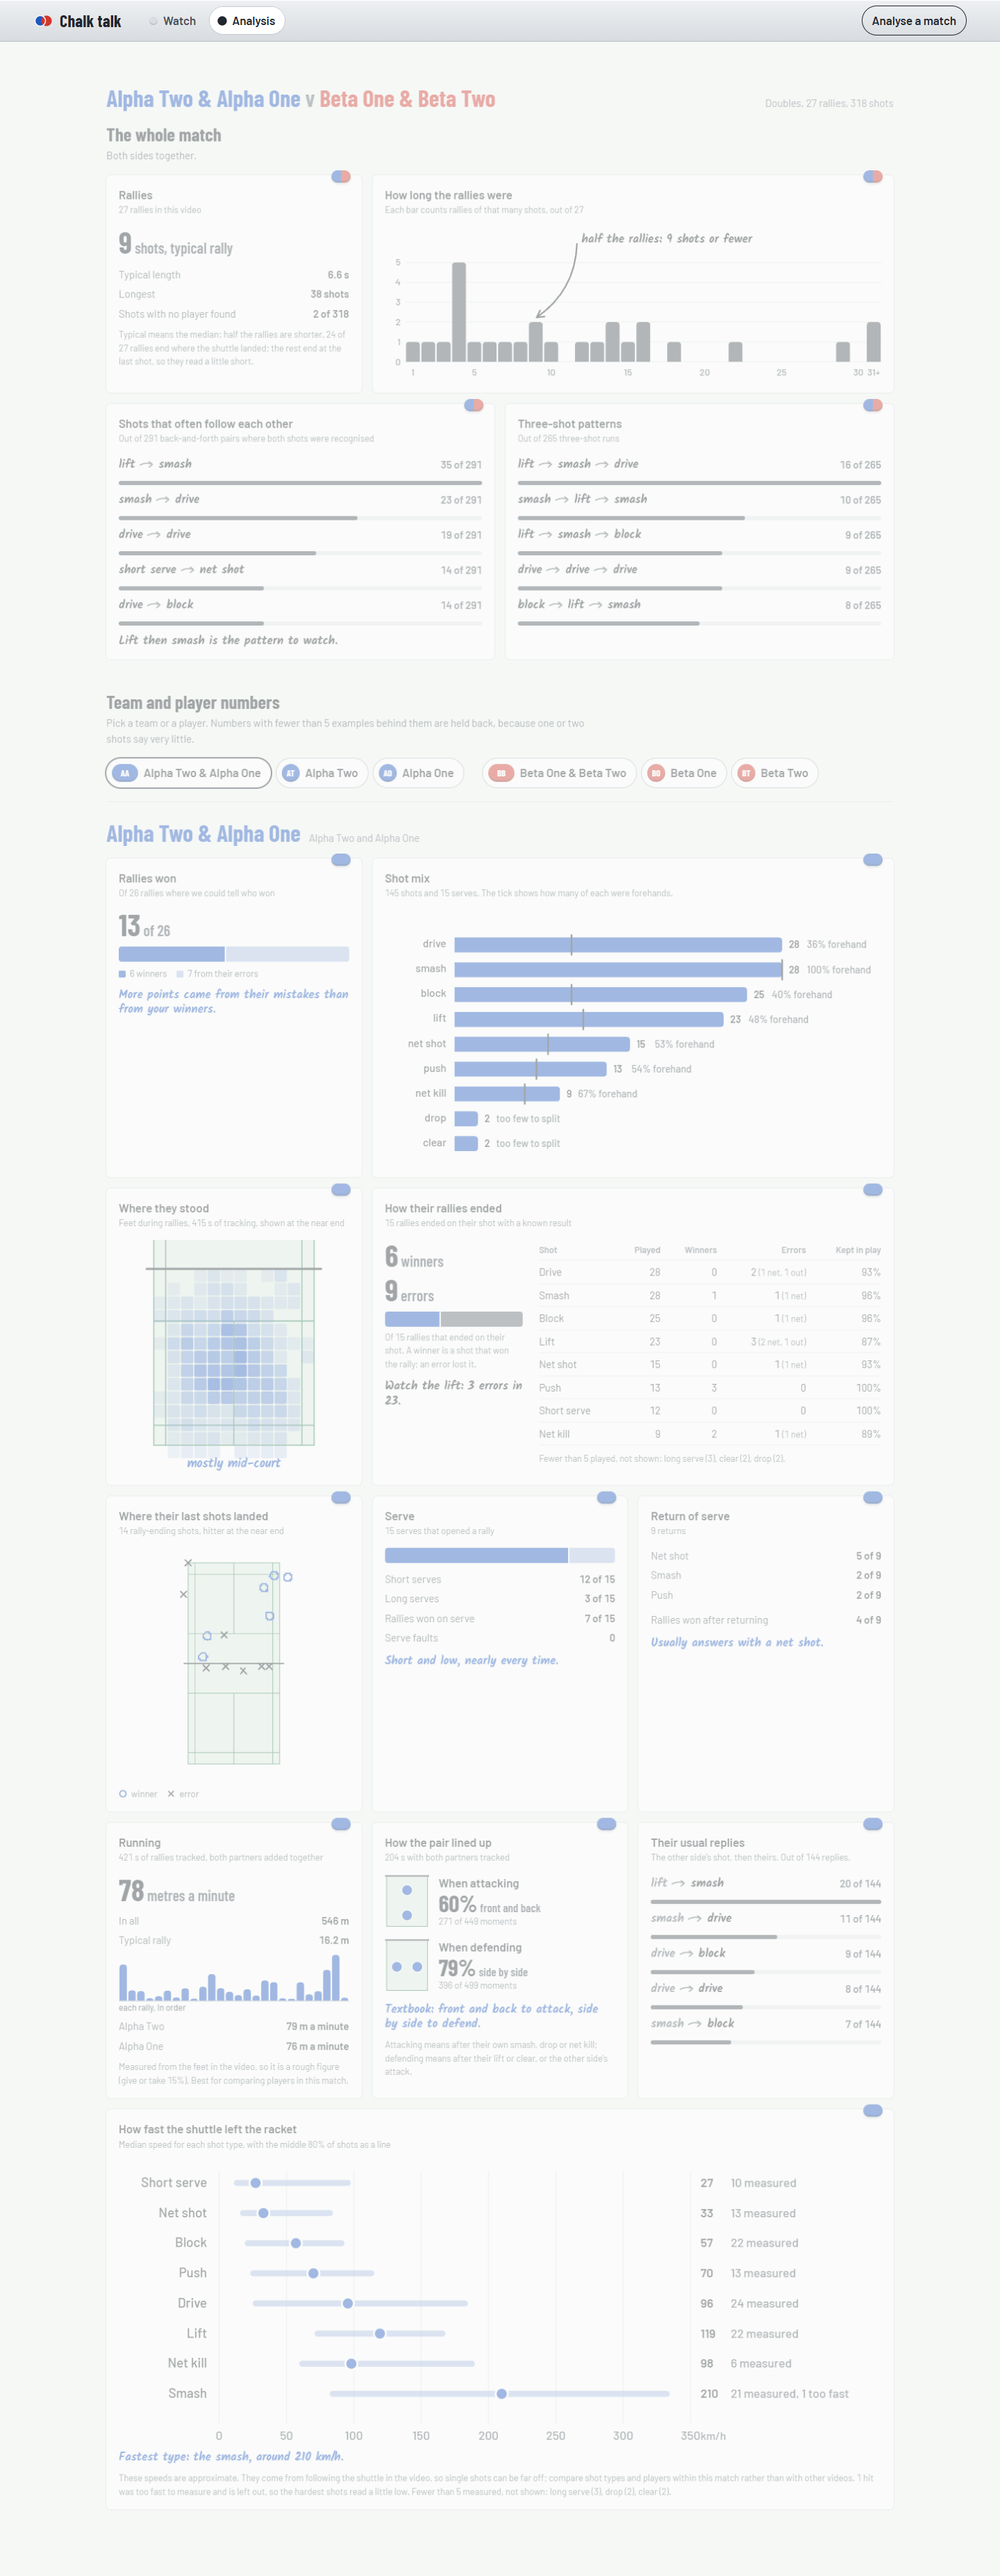
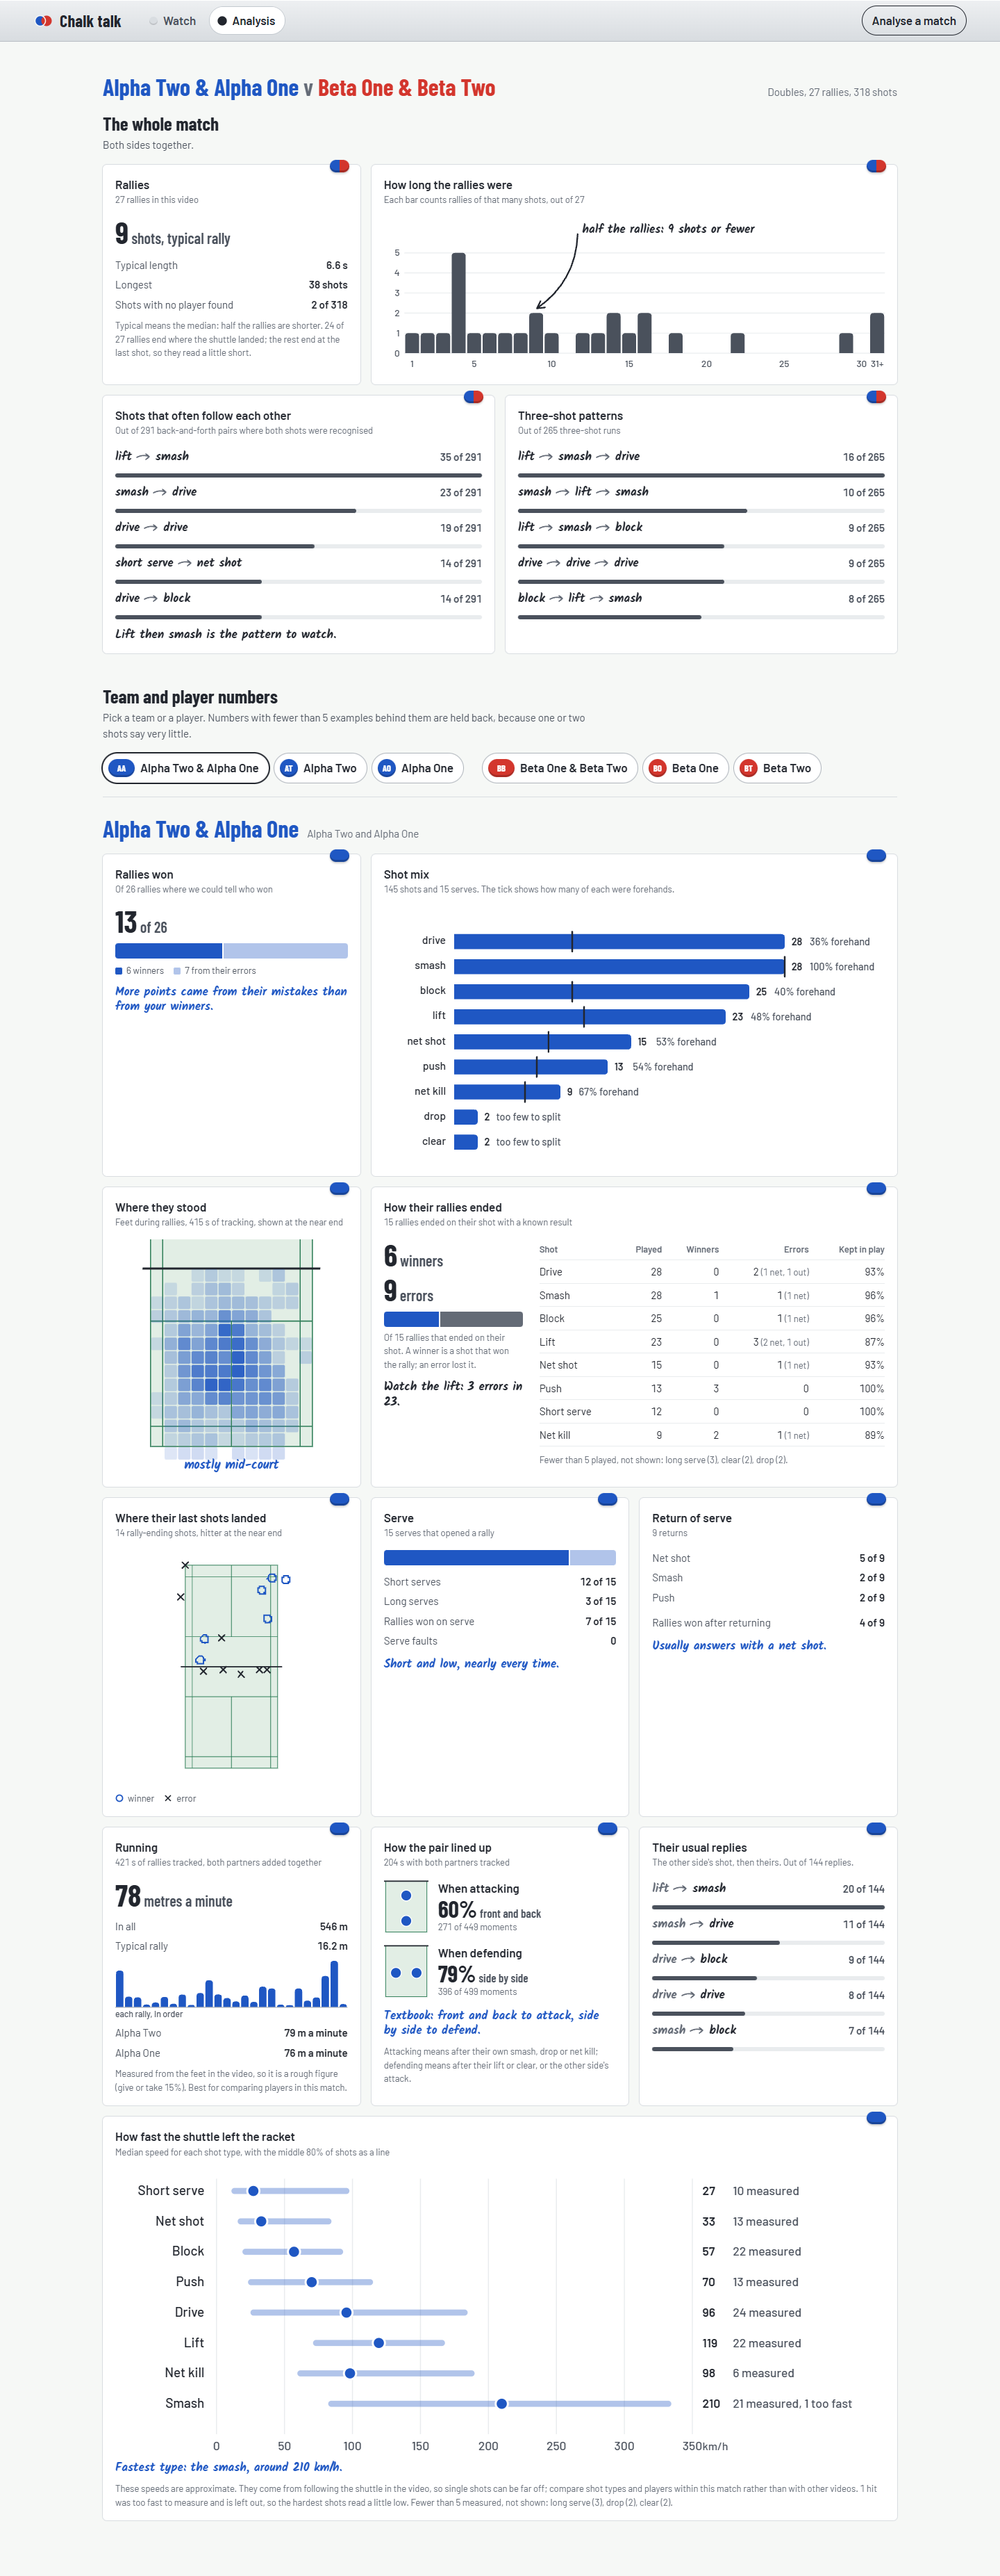
Chalk talk: keep analysis at full contrast and the hero board whole
The page entrance faded opacity from 0, so a capture (or a re-render)
mid-animation left every card pale; it now only scales. The analysis
re-renders only when the phone breakpoint really changes. The hero board
is aimed at its centre and moved right with a view offset sized to the
viewport, so it stays whole beside the headline from 1024 to 1920 px.

diff --git a/design/prototypes/c-chalk-talk/js/board3d.js b/design/prototypes/c-chalk-talk/js/board3d.js
@@ -547,11 +547,12 @@ export async function createBoard(host, { analysis, names, reduced }) {
       tgtHero = new THREE.Vector3(0.6, 0, -6.5);
     } else {
       // keep the board clear of the headline column on any landscape shape
-      const k = Math.max(0, 1.75 - aspect);
-      const d = 23 * (1 + k * 0.75);
-      const shift = -5.9 - k * 8;
-      eyeHero = new THREE.Vector3(shift - 0.6 + px * 2.2, d * 0.58 + py * 1.2, d * 0.8);
-      tgtHero = new THREE.Vector3(shift, -0.6, 1.4);
+      // aim at the board and slide the picture right with a view offset, so the
+      // whole board sits in the right-hand column at any landscape shape
+      const f = Math.max(1.1, 1.25 + (1.6 - aspect) * 0.4);
+      const d = 26 * Math.max(1, 1.9 / aspect) * f;
+      eyeHero = new THREE.Vector3(-1.6 + px * 2.2, d * 0.58 + py * 1.2, d * 0.8);
+      tgtHero = new THREE.Vector3(0.6, -0.6, 1.4);
     }
     eyeA.lerpVectors(eyeHero, eyeFlat, p);
     tgtA.lerpVectors(tgtHero, tgtFlat, p);
@@ -564,6 +565,11 @@ export async function createBoard(host, { analysis, names, reduced }) {
     // a gentle roll in the hero pose so the board reads as lying on a bench
     if (p < 1) camera.rotateZ(0.06 * (1 - p) * (portrait ? 0 : 1));
     // tags fade slightly when the board lies flat (more room for strokes)
+    const w = host.clientWidth || 1;
+    const h = host.clientHeight || 1;
+    const off = portrait ? 0 : Math.max(0.2, 0.235 + (1.6 - aspect) * 0.17) * (1 - p);
+    if (off > 0.0005) camera.setViewOffset(w, h, -w * off, 0, w, h);
+    else camera.clearViewOffset();
     renderer.render(scene, camera);
   }
 

diff --git a/design/prototypes/c-chalk-talk/js/analysis.js b/design/prototypes/c-chalk-talk/js/analysis.js
@@ -16,7 +16,7 @@ let NARROW = MQ.matches;
 
 export async function renderAnalysis(v) {
   NARROW = MQ.matches;
-  const onMq = () => location.hash.includes('analysis') && renderAnalysis(v);
+  const onMq = () => location.hash.includes('analysis') && MQ.matches !== NARROW && renderAnalysis(v);
   MQ.addEventListener('change', onMq, { once: true });
   const key = matchKey();
   const { analysis: A, stats: S } = await loadMatch(key);

diff --git a/design/prototypes/c-chalk-talk/styles.css b/design/prototypes/c-chalk-talk/styles.css
@@ -441,7 +441,6 @@ a {
 }
 @keyframes settle {
   from {
-    opacity: 0;
     transform: scale(0.985);
   }
 }
